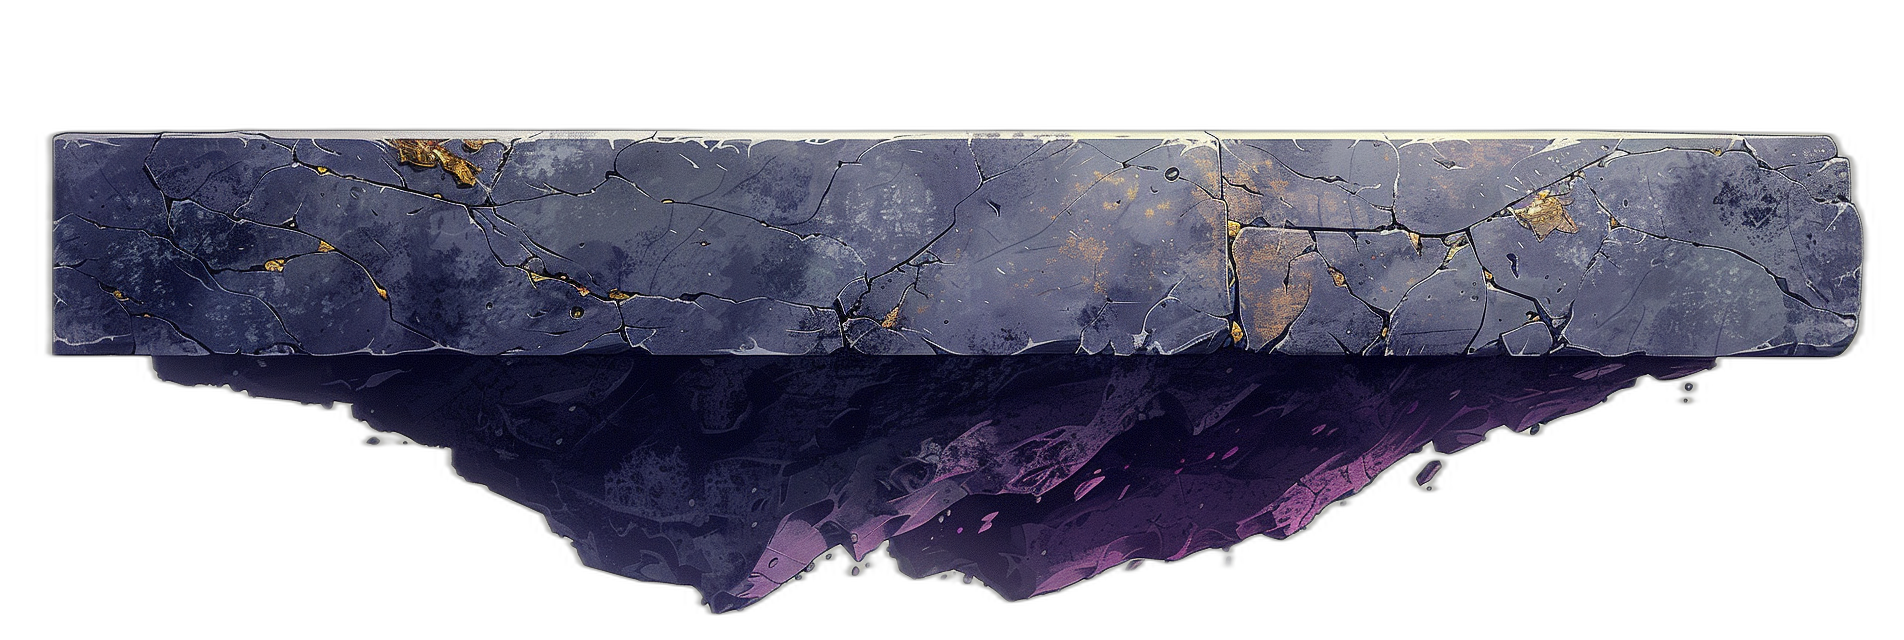
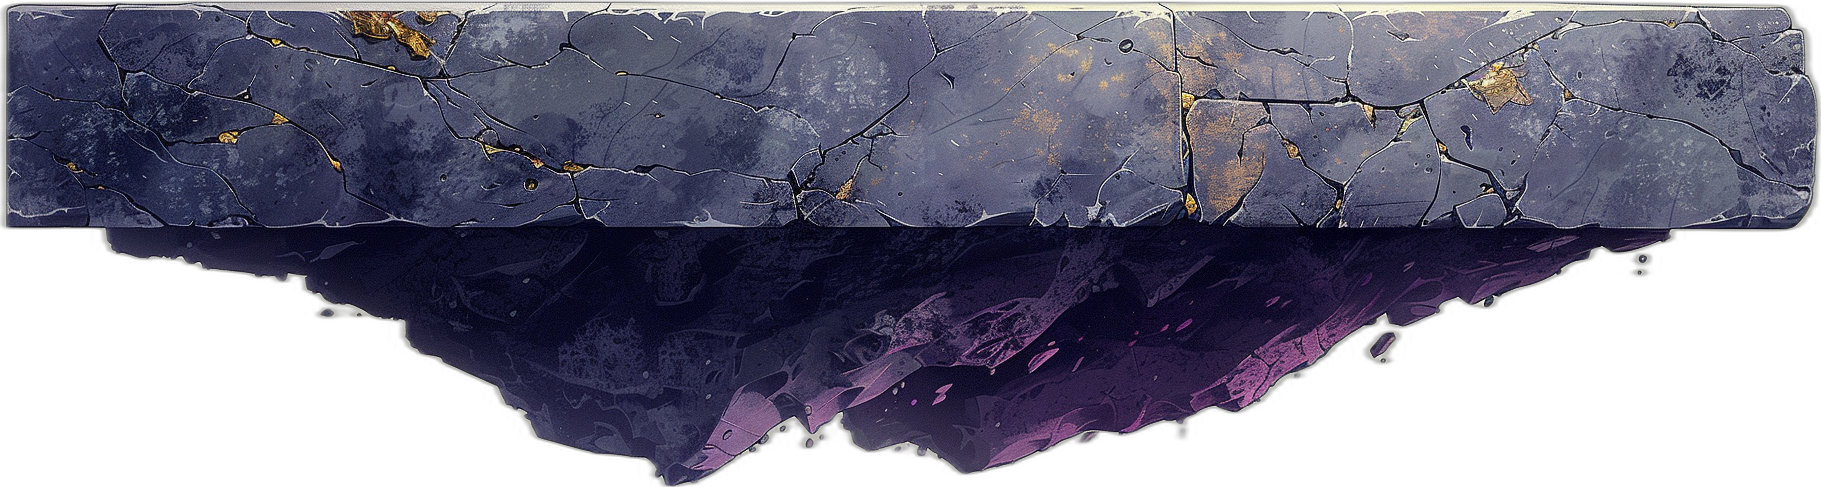
fix(platforms): trim transparent margin so stone surface aligns with collision
The MJ assets shipped with ~150 px of fully-transparent pixels above the actual
stone (~24% of canvas height). When the visual was scaled to game width that
margin became a 15-18 px phantom gap between the player's feet and the stone
surface — visible in-game as the character floating above the platform.

Trimmed all three stone_a/b/c.png in-place so pixel (0, 0) is the stone
surface. Same fix is reusable for future assets via the new
tools/trim_alpha.py CLI; same problem will hit enemy/bonus sprites once
we wire those up.

diff --git a/tools/trim_alpha.py b/tools/trim_alpha.py
@@ -1,0 +1,81 @@
+#!/usr/bin/env python3
+"""Crop fully-transparent rows/columns from PNG borders.
+
+After bg_remove (chroma or ML) the asset is isolated, but the original canvas
+is preserved — there's usually a fat transparent margin around the actual
+sprite. When the game later scales such a sprite to a target width, that
+margin scales with it and shows up as a phantom gap (e.g. character standing
+"above" a platform because the platform asset has 150 px of empty pixels
+above the actual stone).
+
+This tool trims those transparent borders so pixel (0, 0) of the output is
+the first opaque pixel.
+
+Usage:
+    python3 tools/trim_alpha.py in.png out.png
+    python3 tools/trim_alpha.py in_dir/ out_dir/
+    python3 tools/trim_alpha.py asset.png asset.png  # in-place
+"""
+
+from __future__ import annotations
+
+import argparse
+import sys
+from pathlib import Path
+
+import numpy as np
+from PIL import Image
+
+
+def trim(arr: np.ndarray, threshold: int) -> np.ndarray:
+    if arr.shape[-1] != 4:
+        return arr  # no alpha channel — nothing to trim
+    alpha = arr[:, :, 3]
+    rows = np.where(alpha.max(axis=1) > threshold)[0]
+    cols = np.where(alpha.max(axis=0) > threshold)[0]
+    if len(rows) == 0 or len(cols) == 0:
+        return arr  # fully transparent — return as-is
+    top, bot = rows[0], rows[-1] + 1
+    left, right = cols[0], cols[-1] + 1
+    return arr[top:bot, left:right]
+
+
+def iter_targets(src: Path, dst: Path) -> list[tuple[Path, Path]]:
+    if src.is_dir():
+        if dst.exists() and not dst.is_dir():
+            raise SystemExit(f"{dst} exists and is not a directory")
+        return [(p, dst / p.relative_to(src)) for p in sorted(src.rglob("*.png"))]
+    return [(src, dst)]
+
+
+def main() -> int:
+    ap = argparse.ArgumentParser(description=__doc__, formatter_class=argparse.RawDescriptionHelpFormatter)
+    ap.add_argument("input", type=Path)
+    ap.add_argument("output", type=Path)
+    ap.add_argument("--threshold", type=int, default=32,
+                    help="Alpha values <= this count as transparent (default 32)")
+    args = ap.parse_args()
+
+    if not args.input.exists():
+        print(f"error: input not found: {args.input}", file=sys.stderr)
+        return 1
+
+    pairs = iter_targets(args.input, args.output)
+    if not pairs:
+        print("no PNG files found", file=sys.stderr)
+        return 1
+
+    for src, dst in pairs:
+        im = Image.open(src).convert("RGBA")
+        arr = np.array(im)
+        out = trim(arr, args.threshold)
+        dst.parent.mkdir(parents=True, exist_ok=True)
+        Image.fromarray(out).save(dst, "PNG")
+        h0, w0 = arr.shape[:2]
+        h1, w1 = out.shape[:2]
+        print(f"{src} -> {dst}  {w0}x{h0} -> {w1}x{h1}")
+    return 0
+
+
+if __name__ == "__main__":
+    sys.exit(main())
